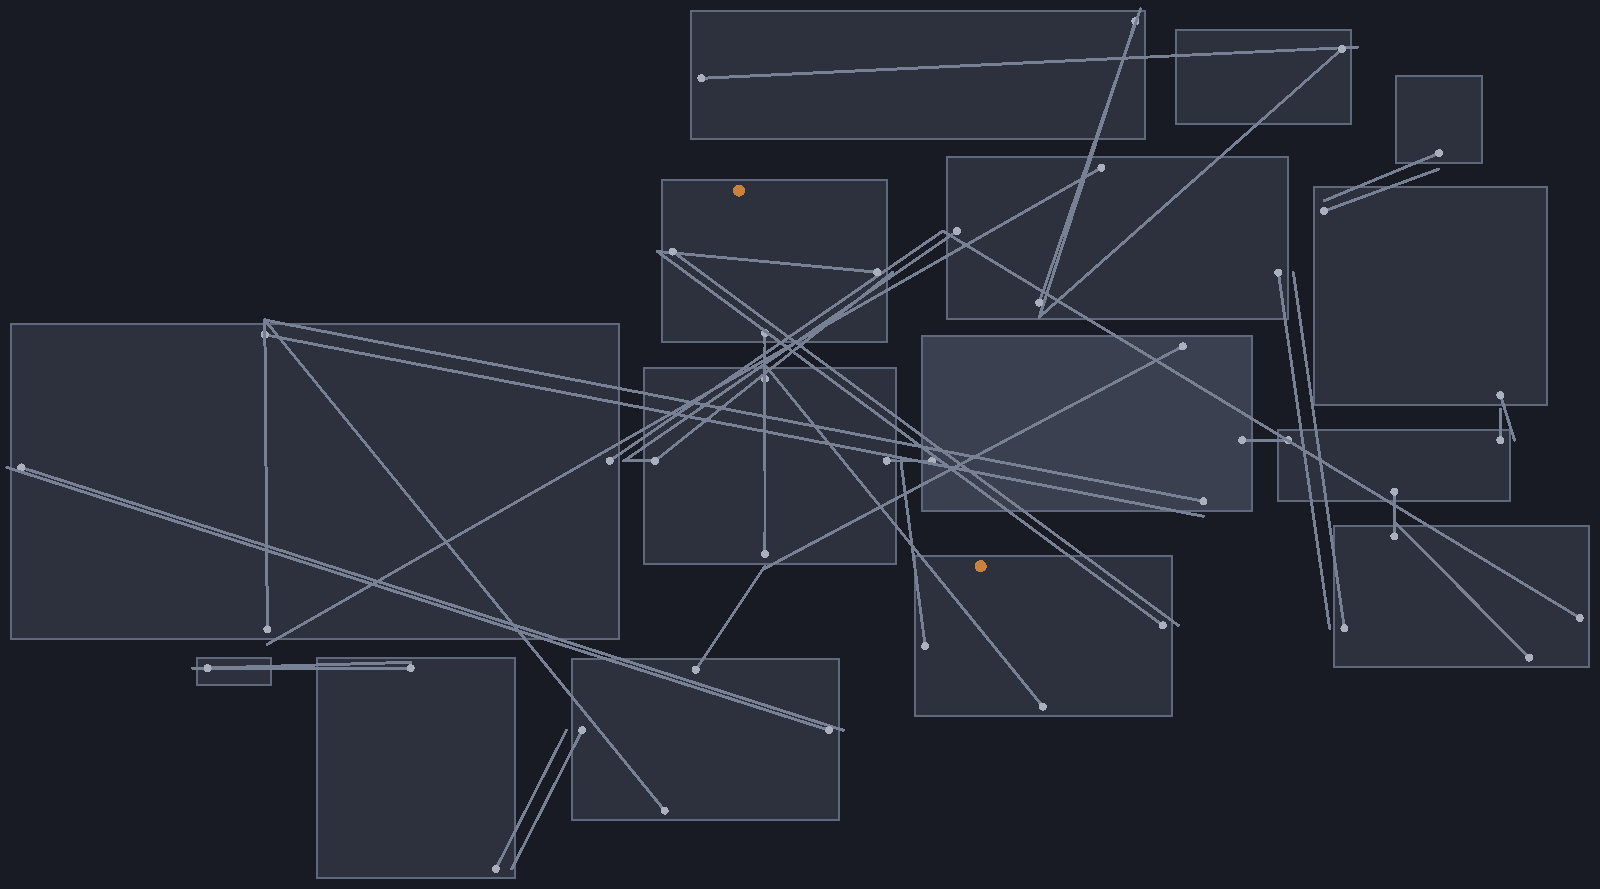
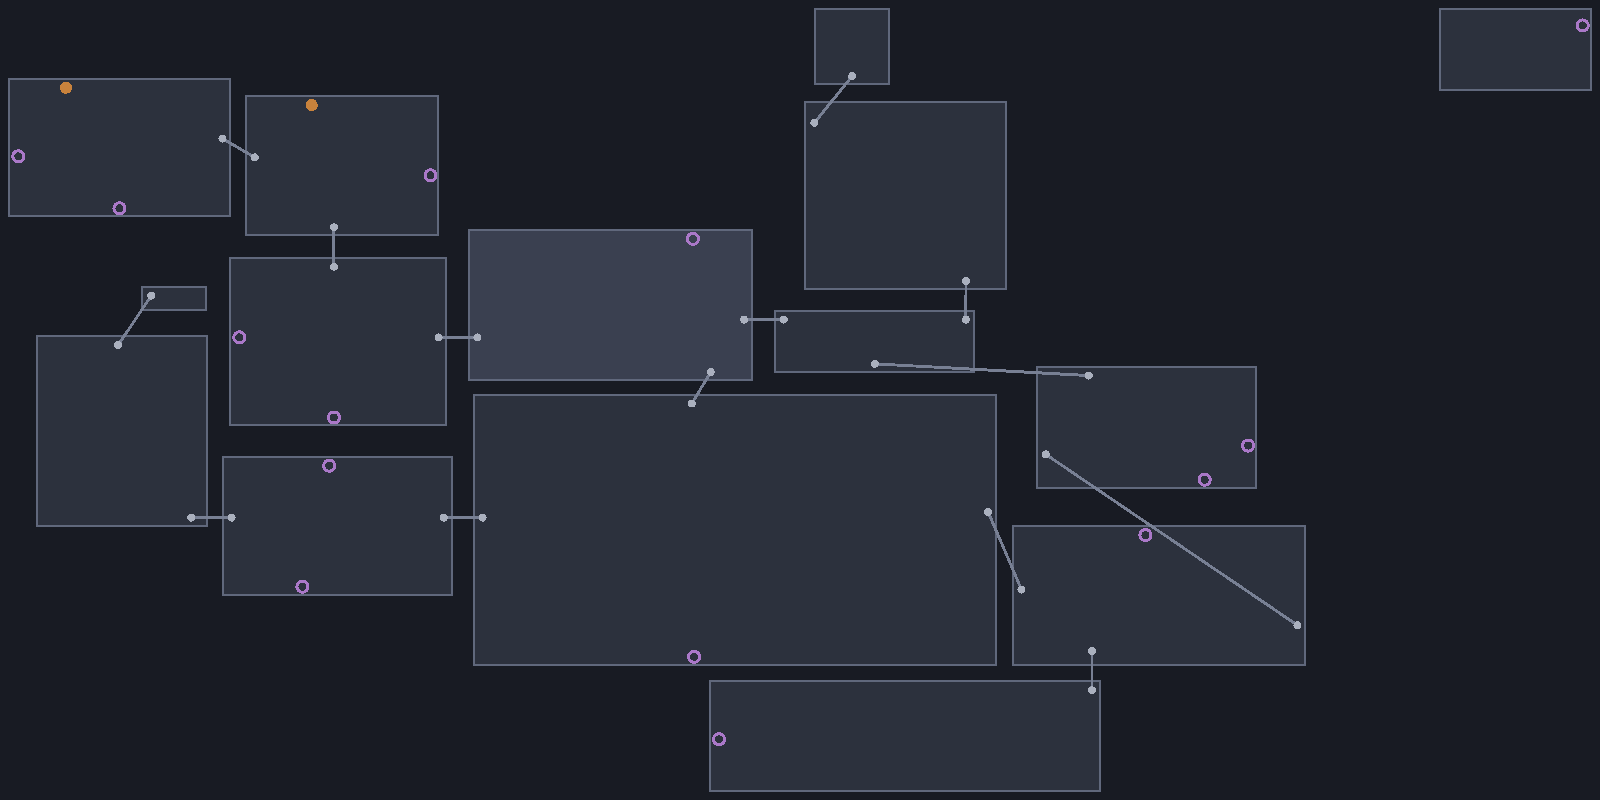
Draw only the logic's doors, rooms entered from inside as boxes
Doors come from the apworld's doors.json: two-way doors place rooms and
get one line per pair, door to door; one-way doors (the fog maze) get a
ring and no line; a fixed link keeps its door nearest the room's edge.
A room entered by a door inside another is a small box at that door.

diff --git a/tools/export.py b/tools/export.py
@@ -32,6 +32,8 @@ ROOM_PAD = 2.0  # game units around a room's entities
 ROOM_GAP = 3.0
 FREE_STEP = 6.0
 GROUP_GAP = 30.0
+EDGE = 3.0  # a door this far inside its room's extent is inside it, not at its edge
+INSIDE_PX = 24  # an inside room's box on the map
 PANEL_SHAPE = 16 / 9  # PopTracker's map panel, wide
 
 
@@ -268,6 +270,77 @@ def overlaps(a: Rect, b: Rect, gap: float) -> bool:
     return a[0] < b[2] + gap and b[0] < a[2] + gap and a[1] < b[3] + gap and b[1] < a[3] + gap
 
 
+def logic_doors(room_data: dict[str, dict], doors: Any) -> dict[str, dict]:
+    """The dump's rooms with only the logic's doors (the apworld's data/doors.json), each marked two-way or one-way.
+    A fixed link names only its two maps, and the dump also lists story transitions between them (a sign, an NPC), so
+    it keeps the door nearest its room's edge, where load zones sit. Story copies are dropped."""
+    two_way = {(e.map, e.door) for c in doors.connections for e in (c.a, c.b)}
+    one_way = {(w.map, w.door) for w in doors.one_way}
+    fixed = {tuple(f) for f in doors.fixed}
+    out = {}
+    for name, room in room_data.items():
+        b = room["bounds"]
+
+        def edge(door: dict) -> float:
+            return min(door["at"][0] - b[0], b[2] - door["at"][0], door["at"][1] - b[1], b[3] - door["at"][1])
+        kept = []
+        for door in room["doors"]:
+            key = (name, door["name"])
+            if key in two_way:
+                kept.append(door | {"kind": "two-way"})
+            elif key in one_way:
+                kept.append(door | {"kind": "one-way"})
+        for to in sorted({d["to"] for d in room["doors"] if (name, d["to"]) in fixed}):
+            kept.append(min((d for d in room["doors"] if d["to"] == to), key=edge) | {"kind": "two-way"})
+        out[name] = {"bounds": b, "doors": kept}
+    return out
+
+
+def insides(names: list[str], rooms: dict[str, dict]) -> dict[str, tuple[str, list[float]]]:
+    """Rooms entered through a door inside another room, not at its edge (a house in a town, its cellar), each with
+    the room it hangs off and that door's spot there. Peeled from the ends inwards: a cellar hangs off its house, the
+    house off its town. They're drawn as a small box at the door, since their own frame would sit on the town."""
+    inside = set(names)
+    neighbours: dict[str, set[str]] = {n: set() for n in names}
+    door_at: dict[tuple[str, str], list[float]] = {}
+    for n in names:
+        for d in rooms[n]["doors"]:
+            if d["to"] in inside and d["to"] != n and d["kind"] == "two-way":
+                neighbours[n].add(d["to"])
+                neighbours[d["to"]].add(n)
+                door_at.setdefault((n, d["to"]), d["at"])
+
+    def within(spot: list[float], bounds: list[float]) -> bool:
+        return min(spot[0] - bounds[0], bounds[2] - spot[0], spot[1] - bounds[1], bounds[3] - spot[1]) > EDGE
+
+    hanging: dict[str, tuple[str, list[float]]] = {}
+    changed = True
+    while changed:
+        changed = False
+        for room in names:
+            if room in hanging:
+                continue
+            rest = [p for p in neighbours[room] if hanging.get(p, ("",))[0] != room]
+            if len(rest) != 1 or (rest[0], room) not in door_at:
+                continue
+            parent = rest[0]
+            if within(door_at[(parent, room)], rooms[parent]["bounds"]):
+                hanging[room] = (parent, door_at[(parent, room)])
+                changed = True
+    return hanging
+
+
+def free_spot(want: tuple[float, float], taken: list[tuple[float, float]], size: float) -> tuple[float, float]:
+    """The nearest point to want, spiralling out, at least size away from every taken point on both axes."""
+    for ring in range(0, 200):
+        for step in range(max(1, ring * 8)):
+            angle = 2 * math.pi * step / max(1, ring * 8)
+            spot = (want[0] + ring * 4 * math.cos(angle), want[1] + ring * 4 * math.sin(angle))
+            if all(abs(spot[0] - t[0]) >= size or abs(spot[1] - t[1]) >= size for t in taken):
+                return spot
+    raise SystemExit("no free spot for an inside room")
+
+
 def layout_area(names: list[str], rooms: dict[str, dict]) -> dict[str, tuple[float, float]]:
     """Each room's offset in one frame of game units: a neighbour goes where its arrival point meets the door that
     leads there (rooms keep their sides: a door on a room's right leads to a room on its right), or the nearest free
@@ -279,7 +352,8 @@ def layout_area(names: list[str], rooms: dict[str, dict]) -> dict[str, tuple[flo
     links: dict[str, list[tuple[str, tuple[float, float]]]] = {n: [] for n in names}
     for n in names:
         for d in rooms[n]["doors"]:
-            if d["to"] in inside and d["to"] != n:
+            # A one-way door (a fog maze's wrong turn, a drop) can loop back anywhere: it places nothing.
+            if d["to"] in inside and d["to"] != n and d["kind"] == "two-way":
                 delta = (d["at"][0] - d["arrive"][0], d["at"][1] - d["arrive"][1])
                 links[n].append((d["to"], delta))
                 links[d["to"]].append((n, (-delta[0], -delta[1])))
@@ -387,7 +461,7 @@ def main() -> None:
     write(PACK / f"images/maps/{WORLD_MAP}.png", world.png())
     locations_json = []
     section_paths = {}
-    room_data = json.loads((PACK / "data/rooms.json").read_text("utf-8"))["maps"]
+    room_data = logic_doors(json.loads((PACK / "data/rooms.json").read_text("utf-8"))["maps"], w["data"].DOORS)
     logic_maps = set(w["data"].MAPS)
     for area, names in areas.items():
         # Every room of the area is drawn, the rooms with checks also get a pin.
@@ -396,12 +470,13 @@ def main() -> None:
         missing = [room for room in names if room not in every]
         if missing:
             raise SystemExit(f"rooms with checks but no room data (tools/rooms.py): {missing}")
-        at = layout_area(every, room_data)
+        hanging = insides(every, room_data)
+        at = layout_area([n for n in every if n not in hanging], room_data)
 
         def frame(name: str) -> Rect:
             b = room_data[name]["bounds"]
             return b[0] + at[name][0], b[1] + at[name][1], b[2] + at[name][0], b[3] + at[name][1]
-        frames = {name: frame(name) for name in every}
+        frames = {name: frame(name) for name in at}
         left = min(f[0] for f in frames.values()) - 2 * ROOM_PAD
         right = max(f[2] for f in frames.values()) + 2 * ROOM_PAD
         low = min(f[1] for f in frames.values()) - 2 * ROOM_PAD
@@ -417,22 +492,58 @@ def main() -> None:
             x1, y0 = px(f[2] + ROOM_PAD, f[3] + ROOM_PAD)
             canvas.box(x0, y0, x1, y1, (58, 64, 80, 255) if name in rooms else (44, 49, 61, 255),
                        (96, 104, 124, 255))
-        for name in every:
+        def door_spot(room: str, door: dict) -> tuple[float, float]:
+            return px(door["at"][0] + at[room][0], door["at"][1] + at[room][1])
+
+        # One line per pair of rooms, from a door to the door that leads back (both ends a dot), where they don't
+        # meet already.
+        joined: set[frozenset[str]] = set()
+        for name in frames:
             for door in room_data[name]["doors"]:
-                spot = px(door["at"][0] + at[name][0], door["at"][1] + at[name][1])
-                if door["to"] in frames:
-                    land = px(door["arrive"][0] + at[door["to"]][0], door["arrive"][1] + at[door["to"]][1])
-                    if math.dist(spot, land) > 6:
-                        canvas.line(spot, land, 3, (120, 128, 148, 255))
+                other = door["to"]
+                if (door["kind"] != "two-way" or other not in frames or other == name
+                        or frozenset((name, other)) in joined):
+                    continue
+                joined.add(frozenset((name, other)))
+                spot = door_spot(name, door)
+                back = [d for d in room_data[other]["doors"] if d["to"] == name and d["kind"] == "two-way"]
+                end = (min((door_spot(other, d) for d in back), key=lambda p: math.dist(p, spot)) if back
+                       else px(door["arrive"][0] + at[other][0], door["arrive"][1] + at[other][1]))
+                if math.dist(spot, end) > 8:
+                    canvas.line(spot, end, 3, (120, 128, 148, 255))
+        # Doors: grey within the area, orange out of it, a ring for a one-way door (no line: it may loop anywhere).
+        for name in frames:
+            for door in room_data[name]["doors"]:
+                spot = door_spot(name, door)
+                if door["kind"] == "one-way":
+                    canvas.disc(*spot, 7, (170, 120, 200, 255), hole=4)
+                elif door["to"] in frames:
                     canvas.disc(*spot, 4, (170, 176, 190, 255))
-                else:
+                elif map_area.get(door["to"]) != area:
                     canvas.disc(*spot, 6, (200, 130, 60, 255))
+        # Inside rooms: a box at the door they're entered by, parents first; a cellar's box beside its house's.
+        boxes: dict[str, tuple[float, float]] = {}
+
+        def depth(room: str) -> int:
+            return 0 if room not in hanging else 1 + depth(hanging[room][0])
+        for room in sorted(hanging, key=lambda r: (depth(r), r)):
+            parent, spot = hanging[room]
+            want = (px(spot[0] + at[parent][0], spot[1] + at[parent][1]) if parent in frames
+                    else (boxes[parent][0] + INSIDE_PX + 4, boxes[parent][1]))
+            boxes[room] = free_spot(want, list(boxes.values()), INSIDE_PX + 2)
+            x, y = boxes[room]
+            half = INSIDE_PX / 2
+            canvas.box(x - half, y - half, x + half, y + half,
+                       (78, 86, 106, 255) if room in rooms else (58, 64, 80, 255), (150, 158, 178, 255))
         write(PACK / f"images/maps/{area}.png", canvas.png())
         maps_json.append({"name": area, "location_size": PIN, "location_border_thickness": 2,
                           "img": f"images/maps/{area}.png"})
         for room in names:
-            f = frames[room]
-            x, y = px((f[0] + f[2]) / 2, (f[1] + f[3]) / 2)
+            if room in boxes:
+                x, y = boxes[room]
+            else:
+                f = frames[room]
+                x, y = px((f[0] + f[2]) / 2, (f[1] + f[3]) / 2)
             locations_json.append({
                 "name": room,
                 "visibility_rules": [f"$bf_room_in_seed|{room}"],
